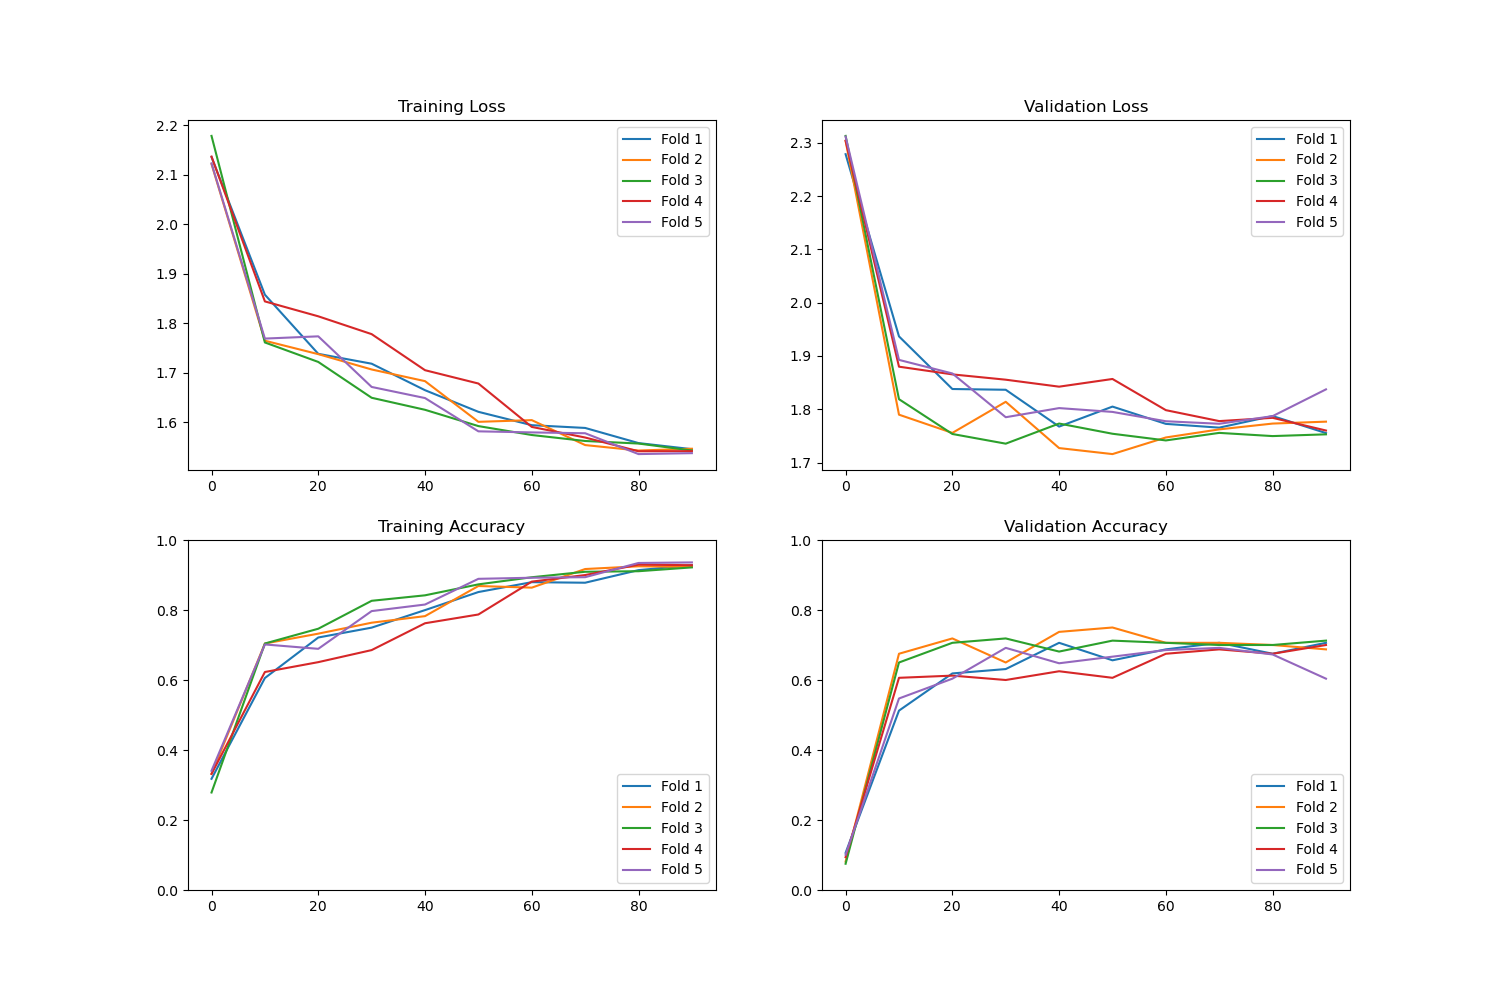
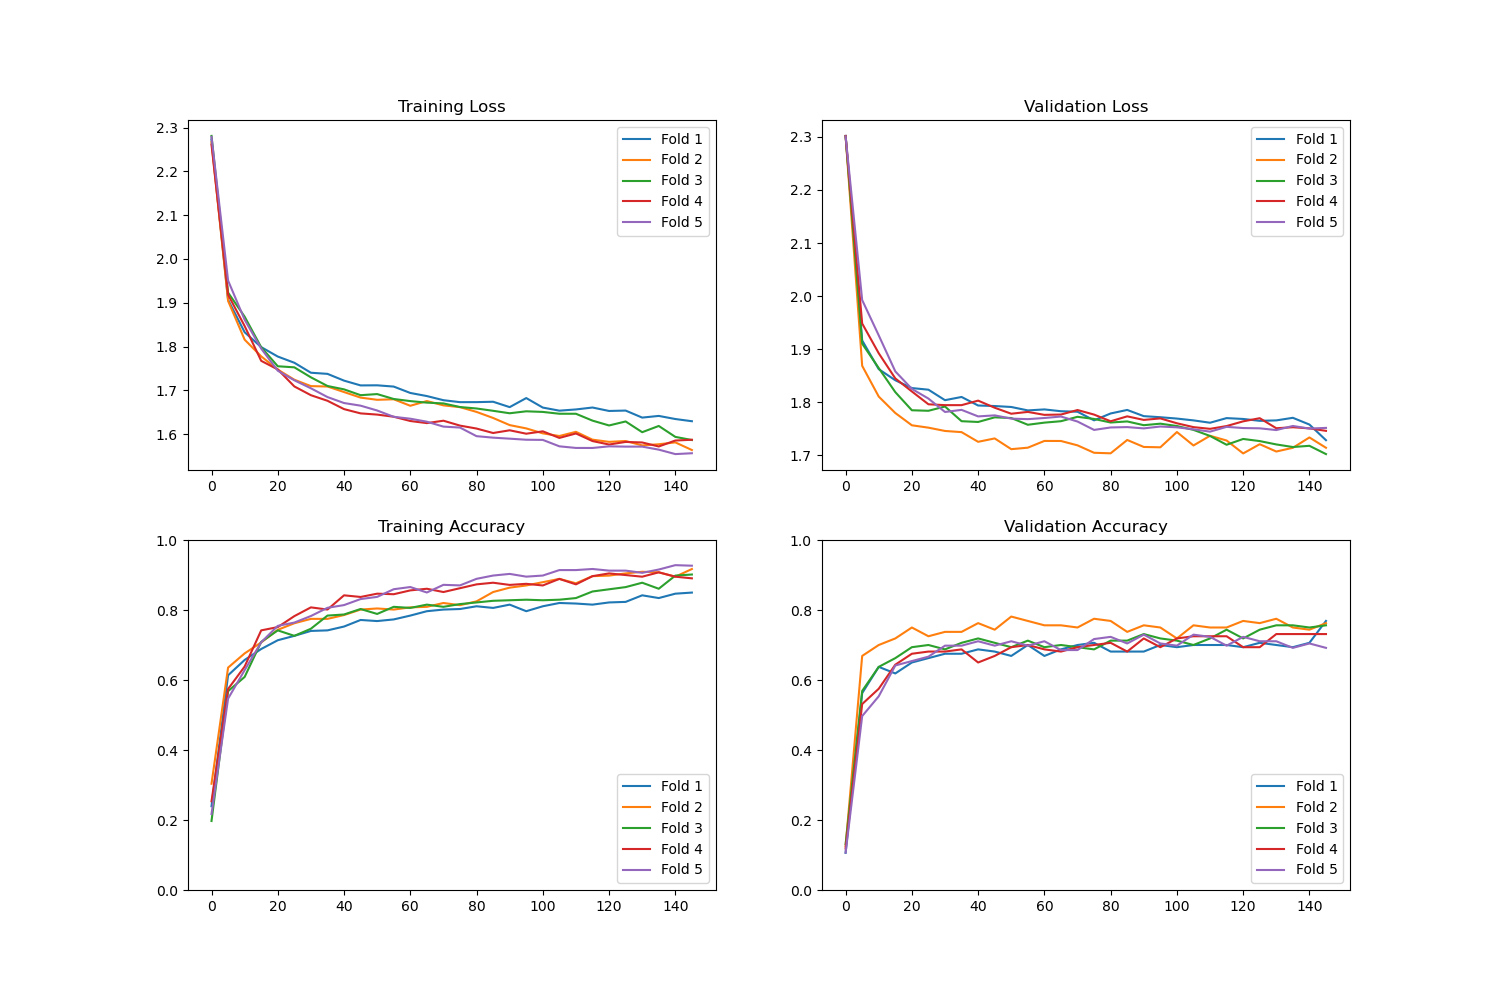
2d classifier with original encoding model

diff --git a/gtzan_classifier.py b/gtzan_classifier.py
@@ -9,6 +9,7 @@ from sklearn.metrics import confusion_matrix
 from sklearn.preprocessing import OneHotEncoder
 from torch.utils.data import DataLoader, Dataset, SubsetRandomSampler
 import matplotlib.pyplot as plt
+import time
 
 class GenreClassifier2D(nn.Module):
     def __init__(self):
@@ -29,28 +30,23 @@ class GenreClassifier2D(nn.Module):
 
         self.fc_group = nn.Sequential(
             nn.Linear(3072, 1024),
-            nn.BatchNorm1d(1024),
+            # nn.BatchNorm1d(1024),
             nn.ReLU(),
-            nn.Dropout(p=0.3),
+            # nn.Dropout(p=0.3),
             nn.Linear(1024, 128),
-            nn.BatchNorm1d(128),
+            # nn.BatchNorm1d(128),
             nn.ReLU(),
-            nn.Dropout(p=0.3),
+            # nn.Dropout(p=0.3),
             nn.Linear(128, 10),
             nn.Softmax(dim=1)
         )
 
     def forward(self, x):
-        x = x.view(x.shape[0], 1, x.shape[1], x.shape[2])
         x = self.conv_group(x)
         x = self.flatten(x)
         x = self.droput(x)
         x = self.fc_group(x)
-        # print(x.shape)
-        # x = F.relu(self.fc1(x))
-        # x = F.relu(self.fc2(x))
-        # x = self.fc3(x)
-        # x = self.softmax(x)
+
         return x
 
 
@@ -152,7 +148,7 @@ class TrajectoryDataset(Dataset):
         return self.trajs.shape[0]
 
     def __getitem__(self, idx):
-        return self.trajs[idx].view(1, 5, 768), self.labels[idx]
+        return self.trajs[idx:idx+1], self.labels[idx]
 
 def train_epoch(model, device, dataloader, loss_fxn, optimizer):
     model.train()
@@ -192,10 +188,9 @@ if __name__ == '__main__':
     device = torch.device("cuda:0" if torch.cuda.is_available() else "cpu")
     model.to(device)
     X = torch.randn(1, 5, 768).to(device)
+    X = X.reshape(X.shape[0], 1, X.shape[1], X.shape[2])
     print(model(X).shape)
 
-    breakpoint()
-    
     # load the data
     data_folder = "/home/shrey/Documents/eecs448-boombox/data/gtzan/"
     genres = ["blues", "classical", "country", "disco", "hiphop", "jazz", "metal", "pop", "reggae", "rock"]
@@ -232,7 +227,10 @@ if __name__ == '__main__':
     train_acc_list = dict()
     test_acc_list = dict()
     iters = dict()
-    num_epochs = 100
+
+    num_epochs = 150
+    print_epochs = 20
+    log_epochs = 5
 
     for i, (train_idx, val_idx) in enumerate(kf.split(X_train)):
         print("Training fold {}...".format(i+1))
@@ -250,14 +248,14 @@ if __name__ == '__main__':
 
         model = GenreClassifier2D().to(device)
         loss_fxn = nn.CrossEntropyLoss()
-        optimizer = torch.optim.Adam(model.parameters(), lr=1e-3, weight_decay=1e-3)
+        optimizer = torch.optim.Adam(model.parameters(), lr=1e-4, weight_decay=1e-3)
 
         print(f"Fold {i}/{n_splits} training with {len(train_loader.sampler)} training samples and {len(val_loader.sampler)} validation samples...")
 
         for epoch in range(num_epochs):
             train_loss, train_correct = train_epoch(model, device, train_loader, loss_fxn, optimizer)
 
-            if epoch % 10 == 0:
+            if epoch % log_epochs == 0:
                 val_loss, val_correct = valid_epoch(model, device, val_loader, loss_fxn)
 
                 train_loss_list[i].append(train_loss/len(train_loader.sampler))
@@ -266,7 +264,7 @@ if __name__ == '__main__':
                 test_acc_list[i].append(val_correct/len(val_loader.sampler))
                 iters[i].append(epoch)
 
-            if epoch % 50 == 0:
+            if epoch % print_epochs == 0:
                 print("Epoch: {}, Train Loss: {}, Train Acc: {}, Val Loss: {}, Val Acc: {}".format(epoch, train_loss/len(train_loader.sampler), train_correct/len(train_loader.sampler), val_loss/len(val_loader.sampler), val_correct/len(val_loader.sampler)))
 
     # print summary of final train/val accuracy for all folds wity f-strings
@@ -298,5 +296,3 @@ if __name__ == '__main__':
     ax[1, 1].legend()
 
     fig.savefig("results.png")
-
-    breakpoint()
